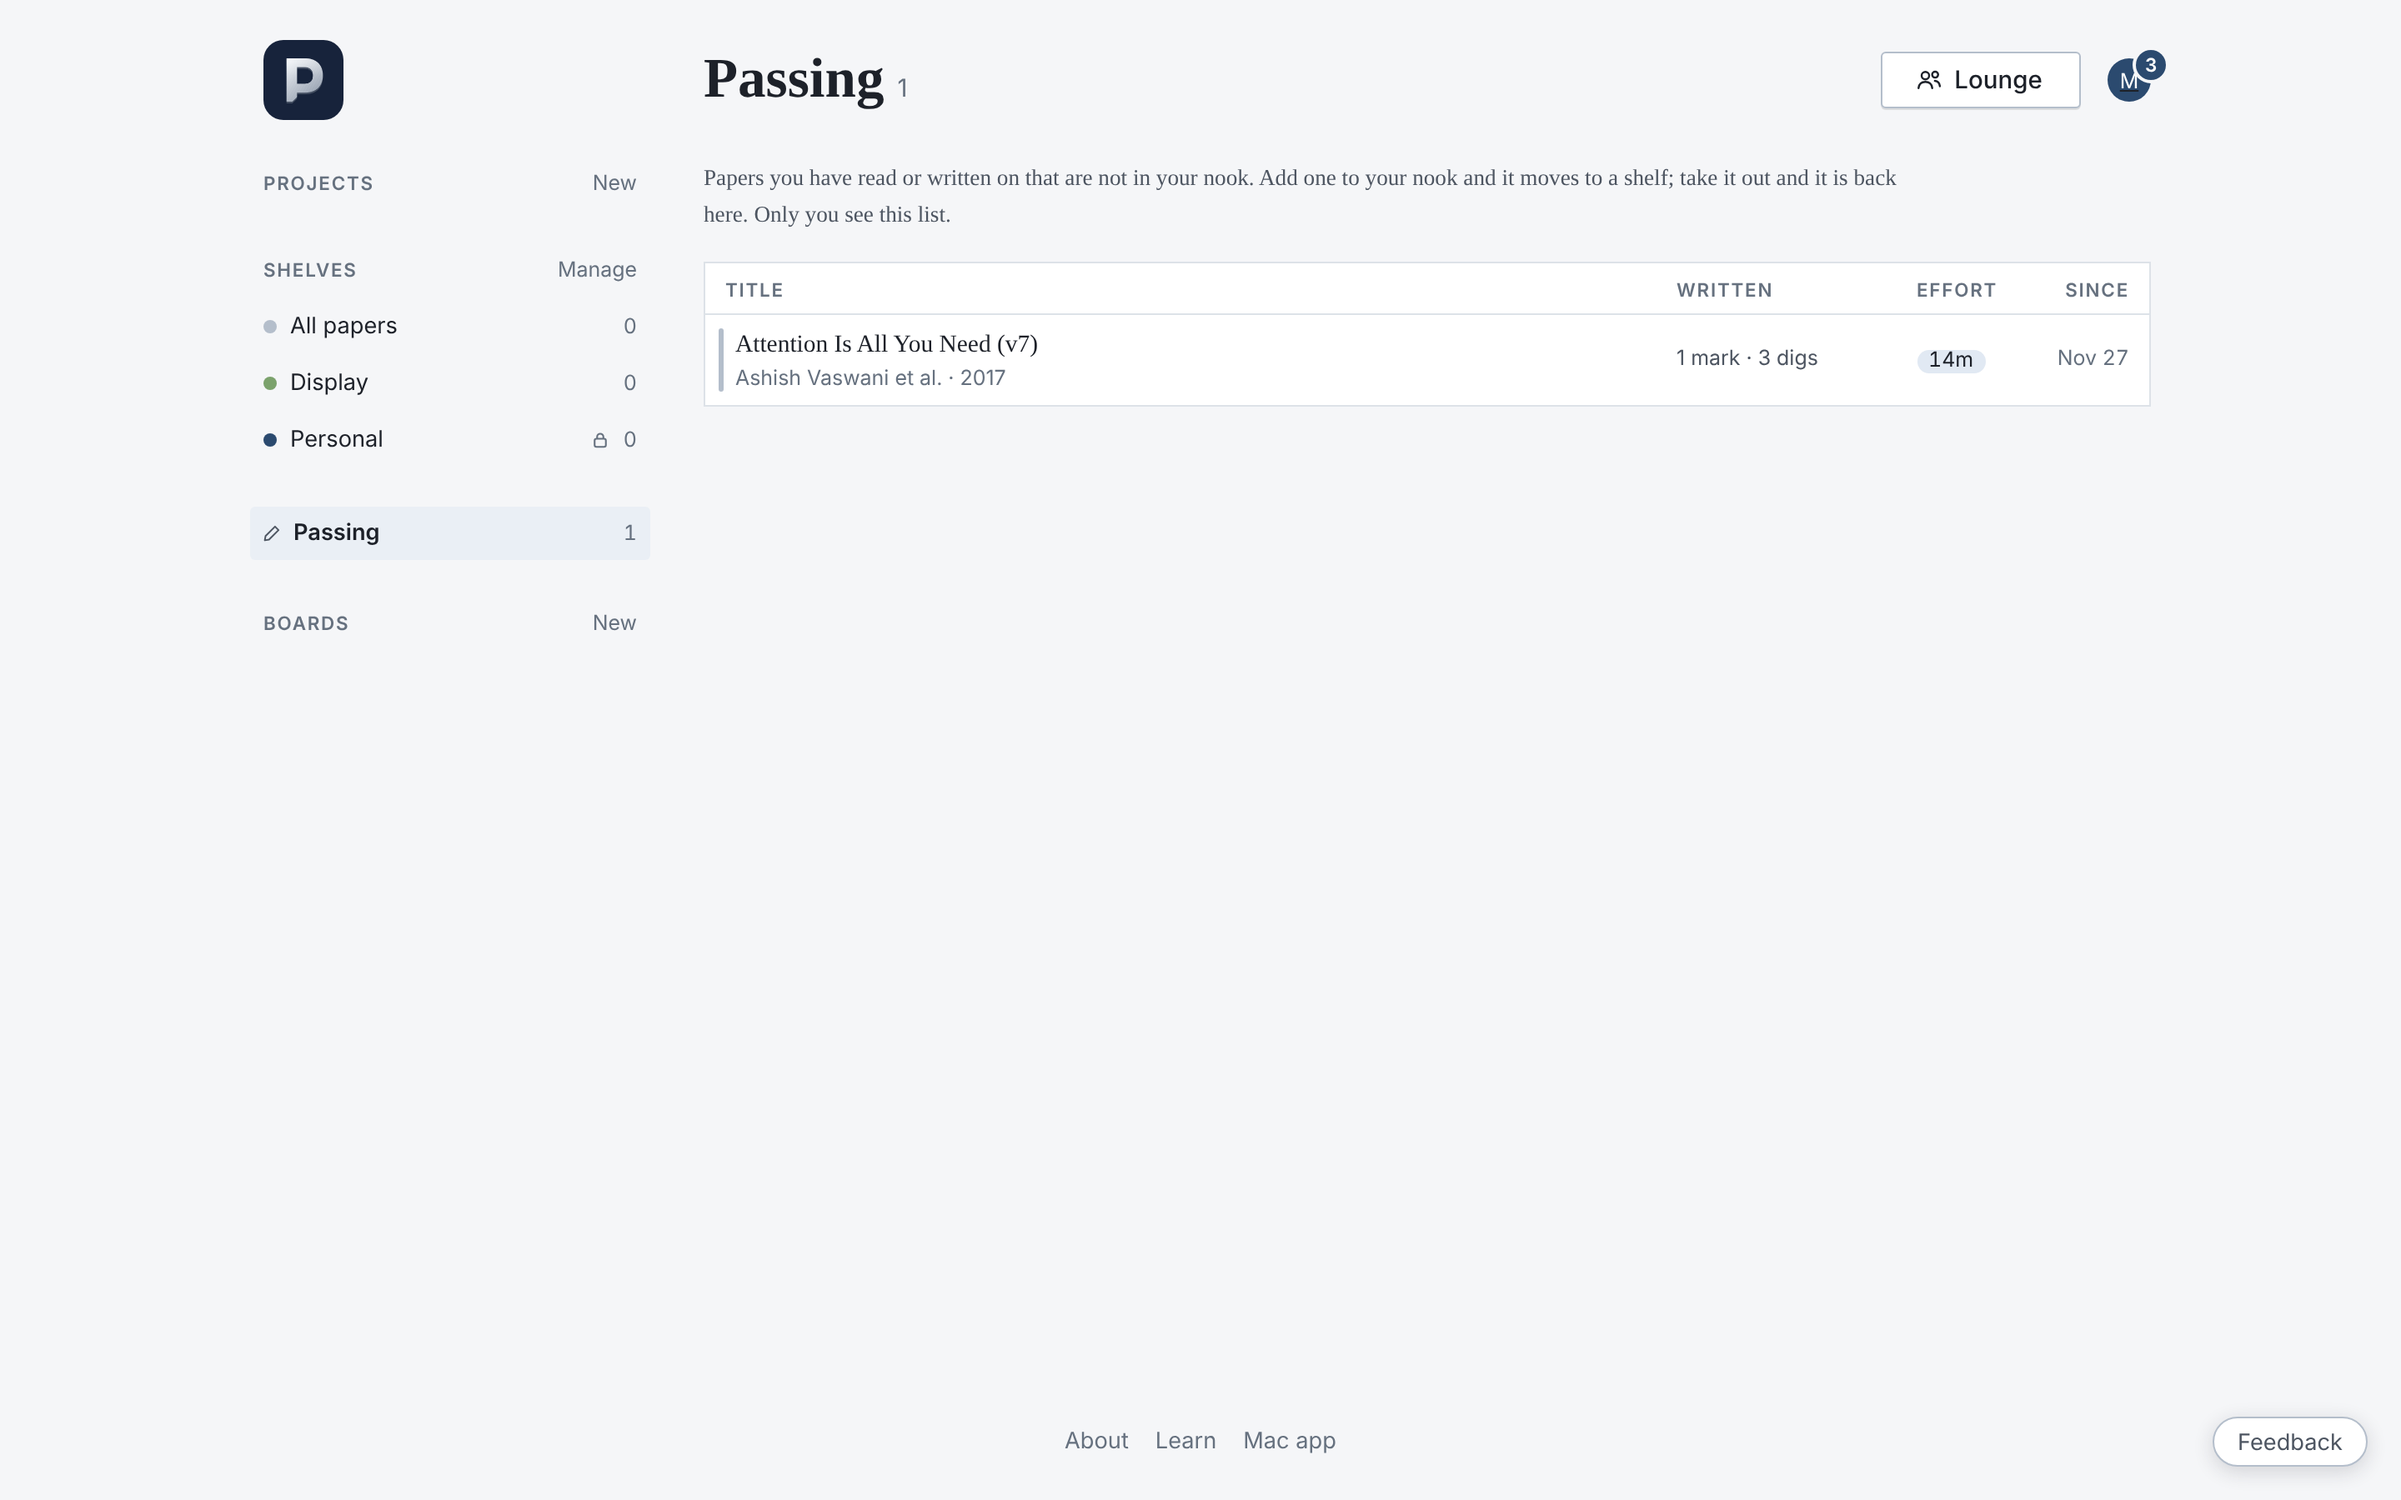
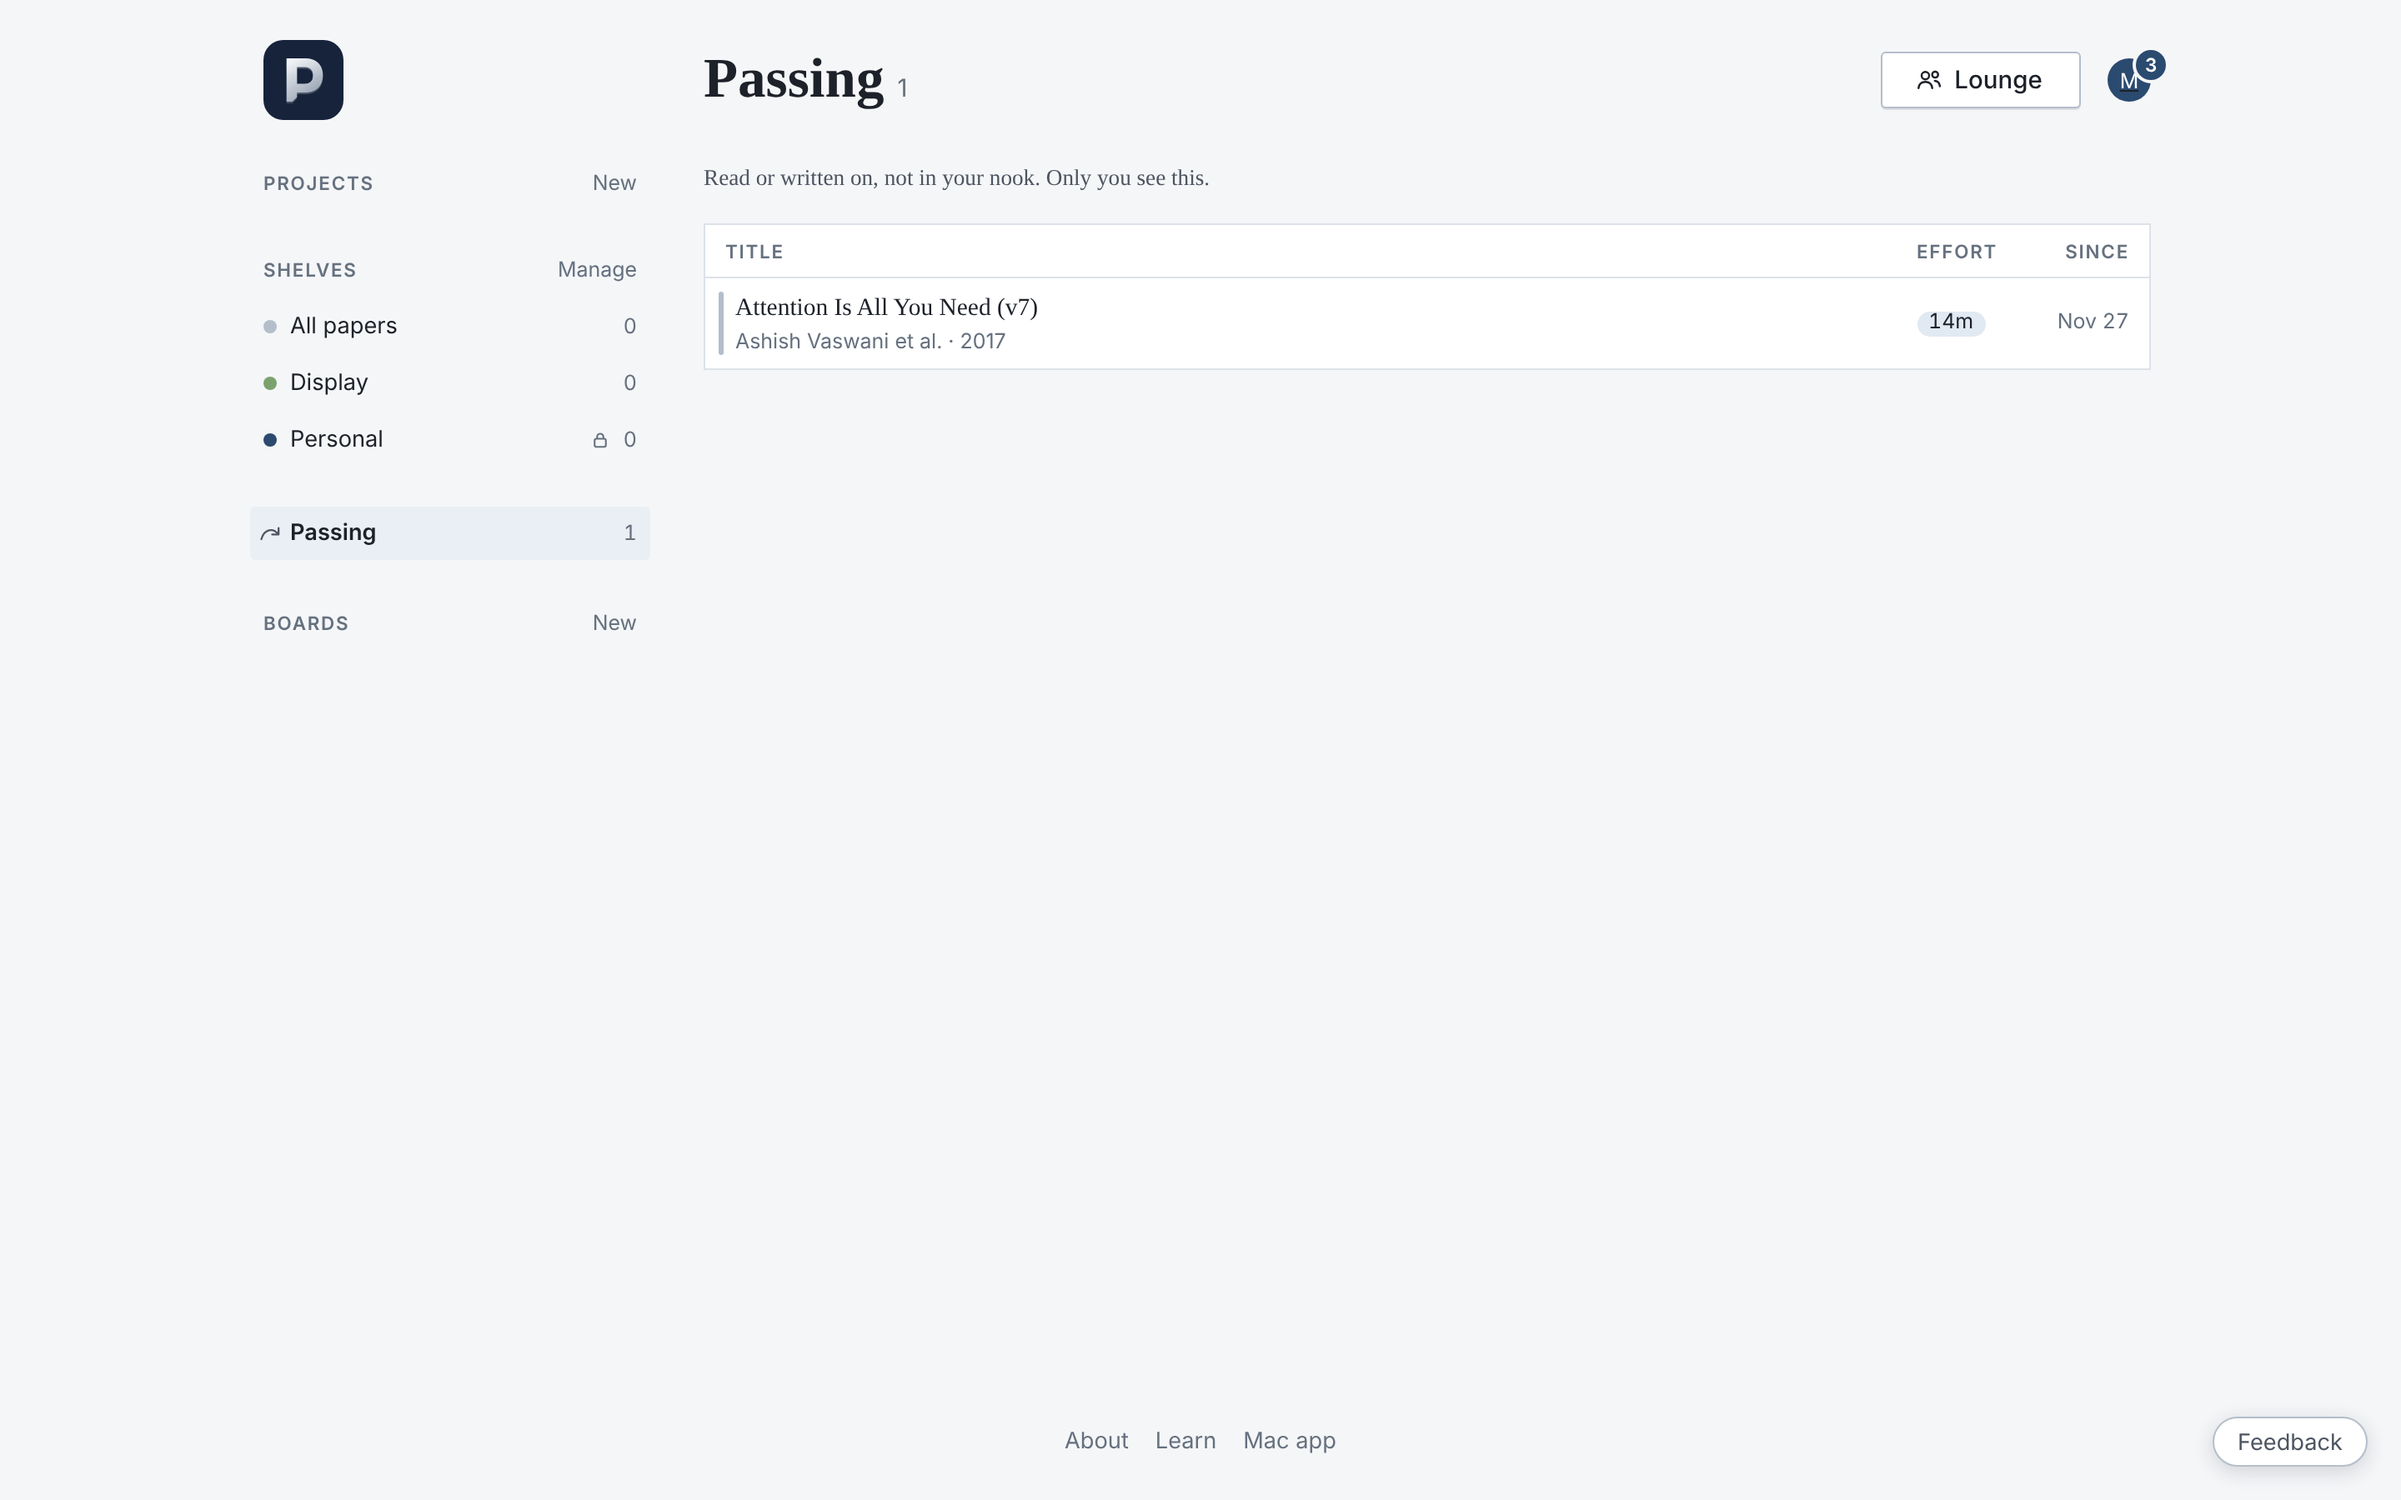
Passing: an arrow going by for its glyph, one line of explanation, no Written column
Claude-Session: https://claude.ai/code/session_01PQZzMS6aJCZGme4NASAkAz

diff --git a/frontend/src/components/NookDesk.jsx b/frontend/src/components/NookDesk.jsx
@@ -26,11 +26,6 @@ const added = (at) => {
 const paperPlace = (sha256, { shelf = null, board = null, marked = false }) =>
   appPath(`${board ? `/board/${board}` : marked ? '/passing' : shelf ? `/shelf/${shelf}` : ''}/paper/${paperName(sha256)}`);
 
-// What is written on a marked paper now: "2 marks · 1 dig".
-const written = ({ annotations, digs }) => [
-  annotations > 0 && `${annotations} ${annotations === 1 ? 'mark' : 'marks'}`,
-  digs > 0 && `${digs} ${digs === 1 ? 'dig' : 'digs'}`,
-].filter(Boolean).join(' · ') || '';
 
 // Who else is in a project, inside its card's link, the one way in.
 function Faces({ users, max }) {
@@ -227,7 +222,8 @@ export default function NookDesk({ nook, adding, reviewing, onSelectBoard, onMan
               <li>
                 <a className={marked ? 'desk-row is-on' : 'desk-row'} href={appPath('/passing')} aria-current={marked ? 'page' : undefined}>
                   <svg className="desk-mark" viewBox="0 0 16 16" aria-hidden="true">
-                    <path d="M10.6 2.6l2.8 2.8-7.6 7.6-3.4.6.6-3.4z" />
+                    <path d="M2 12C4 5 10 4 13.5 8.5" />
+                    <path d="M13.8 4.4v4.4H9.4" />
                   </svg>
                   <span className="desk-row-name">Passing</span>
                   <span className="desk-count">{markedPapers.length}</span>
@@ -292,13 +288,12 @@ export default function NookDesk({ nook, adding, reviewing, onSelectBoard, onMan
           {!(paper || reviewing) && (
             <InWay><h2 id="desk-marked" className="desk-main-title">Passing<span className="desk-count">{markedPapers.length}</span></h2></InWay>
           )}
-          <p className="desk-marked-note">Papers you have read or written on that are not in your nook. Add one to your nook and it moves to a shelf; take it out and it is back here. Only you see this list.</p>
+          <p className="desk-marked-note">Read or written on, not in your nook. Only you see this.</p>
           {markedPapers.length > 0 ? (
             <table className="desk-table">
               <thead>
                 <tr>
                   <th scope="col" className="desk-col-title">Title</th>
-                  <th scope="col" className="desk-col-written">Written</th>
                   <th scope="col" className="desk-col-effort">Effort</th>
                   <th scope="col" className="desk-col-date">Since</th>
                 </tr>
@@ -313,7 +308,6 @@ export default function NookDesk({ nook, adding, reviewing, onSelectBoard, onMan
                         {p.journal && ` · ${p.journal}`}
                       </span>
                     </td>
-                    <td className="desk-col-written">{written(p)}</td>
                     <td className="desk-col-effort"><Effort effort={p.effort} subject={p.sha256} compact /></td>
                     <td className="desk-col-date">{added(p.since)}</td>
                   </tr>

diff --git a/shared/applicationStyles.js b/shared/applicationStyles.js
@@ -5832,10 +5832,9 @@ ${talkStyles}
 .desk-col-effort .effort-pop { left: auto; right: -4px; }
 .effort-pop:empty { visibility: hidden; }
 .desk-none { color: var(--ink-faint); font-size: var(--fs-sm); }
-.desk-mark { flex: none; width: 12px; height: 12px; margin: 0 -1px; fill: none; stroke: var(--ink-soft); stroke-width: 1.3; stroke-linejoin: round; }
+.desk-mark { flex: none; width: 14px; height: 14px; margin: 0 -3px; fill: none; stroke: var(--ink-soft); stroke-width: 1.3; stroke-linejoin: round; stroke-linecap: round; }
 .desk-marked-note { max-width: 46rem; margin: 0 0 var(--space-4); color: var(--ink-soft); font-size: var(--fs-sm); }
 .paper-marked-hint { margin: var(--space-2) 0 0; color: var(--ink-faint); font-size: var(--fs-xs); }
-.desk-col-written { width: 9rem; white-space: nowrap; color: var(--ink-soft); font: 400 var(--fs-xs) var(--font-ui); }
 /* Inside a project there is no rail: the project takes the width. */
 .nook-desk.is-project { grid-template-columns: minmax(0, 1fr); }
 .nook-desk.is-reviewing { grid-template-columns: minmax(0, 1fr); }
@@ -5857,8 +5856,7 @@ ${talkStyles}
   .desk-main { order: -1; }
   .desk-filter { position: static; flex-wrap: wrap; padding: 0; margin-bottom: var(--space-3); }
   .desk-search { flex: 1 1 100%; }
-  .desk-table thead, .desk-table .desk-col-date, .desk-table .desk-col-effort, .desk-table .desk-col-written { display: none; }
-  .desk-table, .desk-table tbody { display: block; table-layout: auto; }
+  .desk-table thead, .desk-table .desk-col-date, .desk-table .desk-col-effort, .desk-table   .desk-table, .desk-table tbody { display: block; table-layout: auto; }
   .desk-table tr { display: grid; grid-template-columns: minmax(0, 1fr); align-items: center; border-bottom: 1px solid var(--line); }
   .desk-table tbody tr:last-child { border-bottom: 0; }
   .desk-table td { display: block; height: auto; border: 0; }

diff --git a/USER_STORIES.md b/USER_STORIES.md
@@ -223,7 +223,7 @@ A friend is someone I chose, who chose me back. Friendship is the third audience
 - **US-9.12** **A friend can post in my dig**, as a project member can. I get it in my Inbox. Only I reword or remove the dig; only the writer edits or takes back a post. A dig has no phase outside a project, and that does not change.
 - **US-9.13** Moving the paper to a private shelf takes my digs on it out of every friend's sight at once, posts and all, and moving it back returns them. This is the rule projects already follow.
 - **US-9.13a** **I can dig a paper that is not in my nook**: a friend's, or one I opened from the Lounge. Its jacket has **Your dig** for me as it has for a paper I keep, and in the viewer on the web I drop anchors, paint and clip on it and dig them, with **Add to nook** still in the bar. Nothing is added to my nook for it. A dig on a paper I never put on a shelf is read as one on a public shelf is: by my friends and by a project of mine that holds the paper, and the jacket's badge says *friends*. To keep it to myself I add the paper and move it to a private shelf. A paper I took out of my nook is withdrawn: my digs on it are mine alone, the badge says *private*, and they are read again once the paper is back on a public shelf. Defined terms and a link carrying my reading still ask for the paper in my nook, and so does Papol for Mac for anything written on a paper.
-- **US-9.13b** **A paper I read or wrote on without adding it is under Passing in my nook.** Any time the viewer recorded me reading a paper counts, and so does my first anchor, ink, clip or dig on it. While the paper is on none of my shelves it is listed under **Passing**, in my nook's rail below the shelves; each row says how many marks and digs I have on it now, how long I read it, and since when, and opens the paper's jacket. Adding the paper to my nook moves it to a shelf and off the list; taking it out puts it back, and so it stays even with everything I wrote deleted. A paper on a shelf is never listed there. The list is mine alone, as my reading is (US-9.14). It is on the web; Papol for Mac does not list it yet.
+- **US-9.13b** **A paper I read or wrote on without adding it is under Passing in my nook.** Any time the viewer recorded me reading a paper counts, and so does my first anchor, ink, clip or dig on it. While the paper is on none of my shelves it is listed under **Passing**, in my nook's rail below the shelves; each row says how long I read it and since when, and opens the paper's jacket. Adding the paper to my nook moves it to a shelf and off the list; taking it out puts it back, and so it stays even with everything I wrote deleted. A paper on a shelf is never listed there. The list is mine alone, as my reading is (US-9.14). It is on the web; Papol for Mac does not list it yet.
 - **US-9.14** **What I am reading is mine alone.** A friend never sees that I read a paper, when, or for how long, and there is no setting that shows it: US-5c.3 stands. What a friend does see is that I put a paper on a public shelf (US-10.3).
 - **US-9.15** Friendship changes nothing in a project. A project's members see what they see today whether or not they are friends, and a friend who is not a member sees nothing of the project but its name and members.
 
